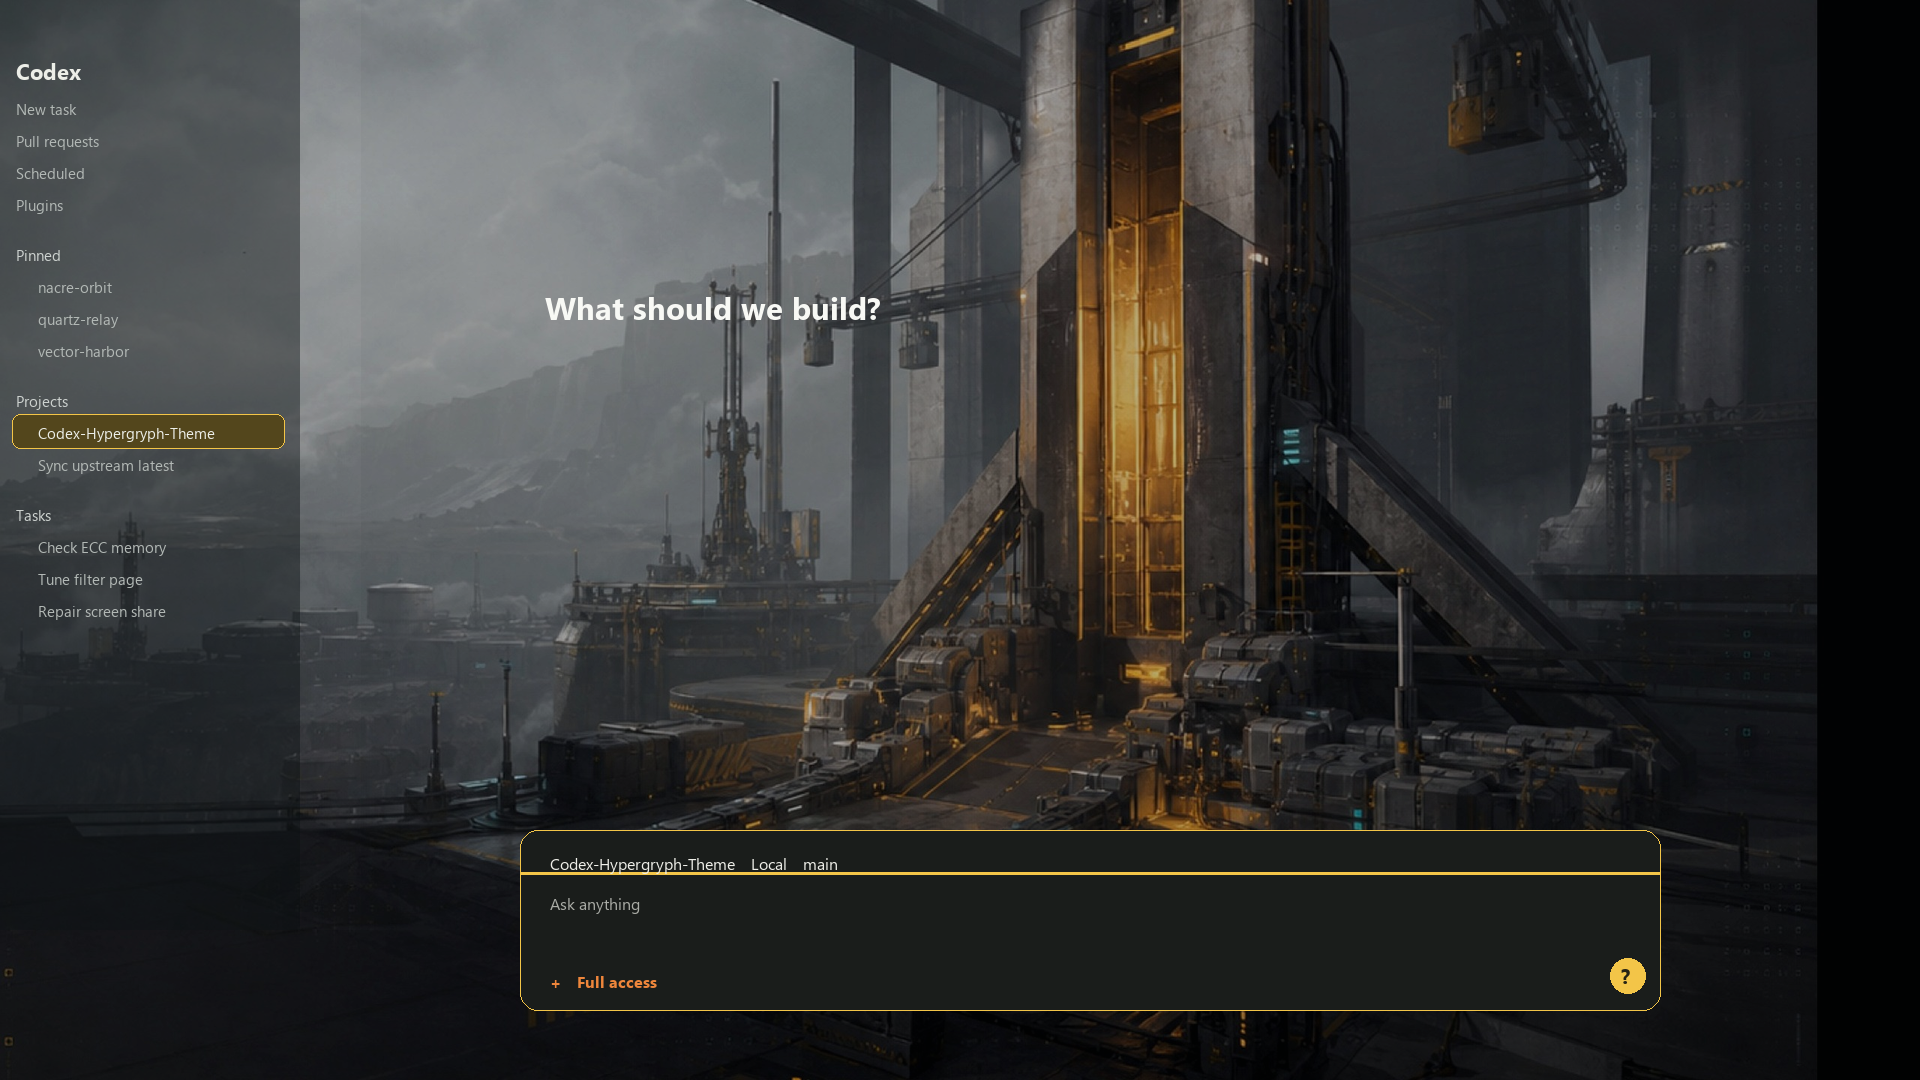
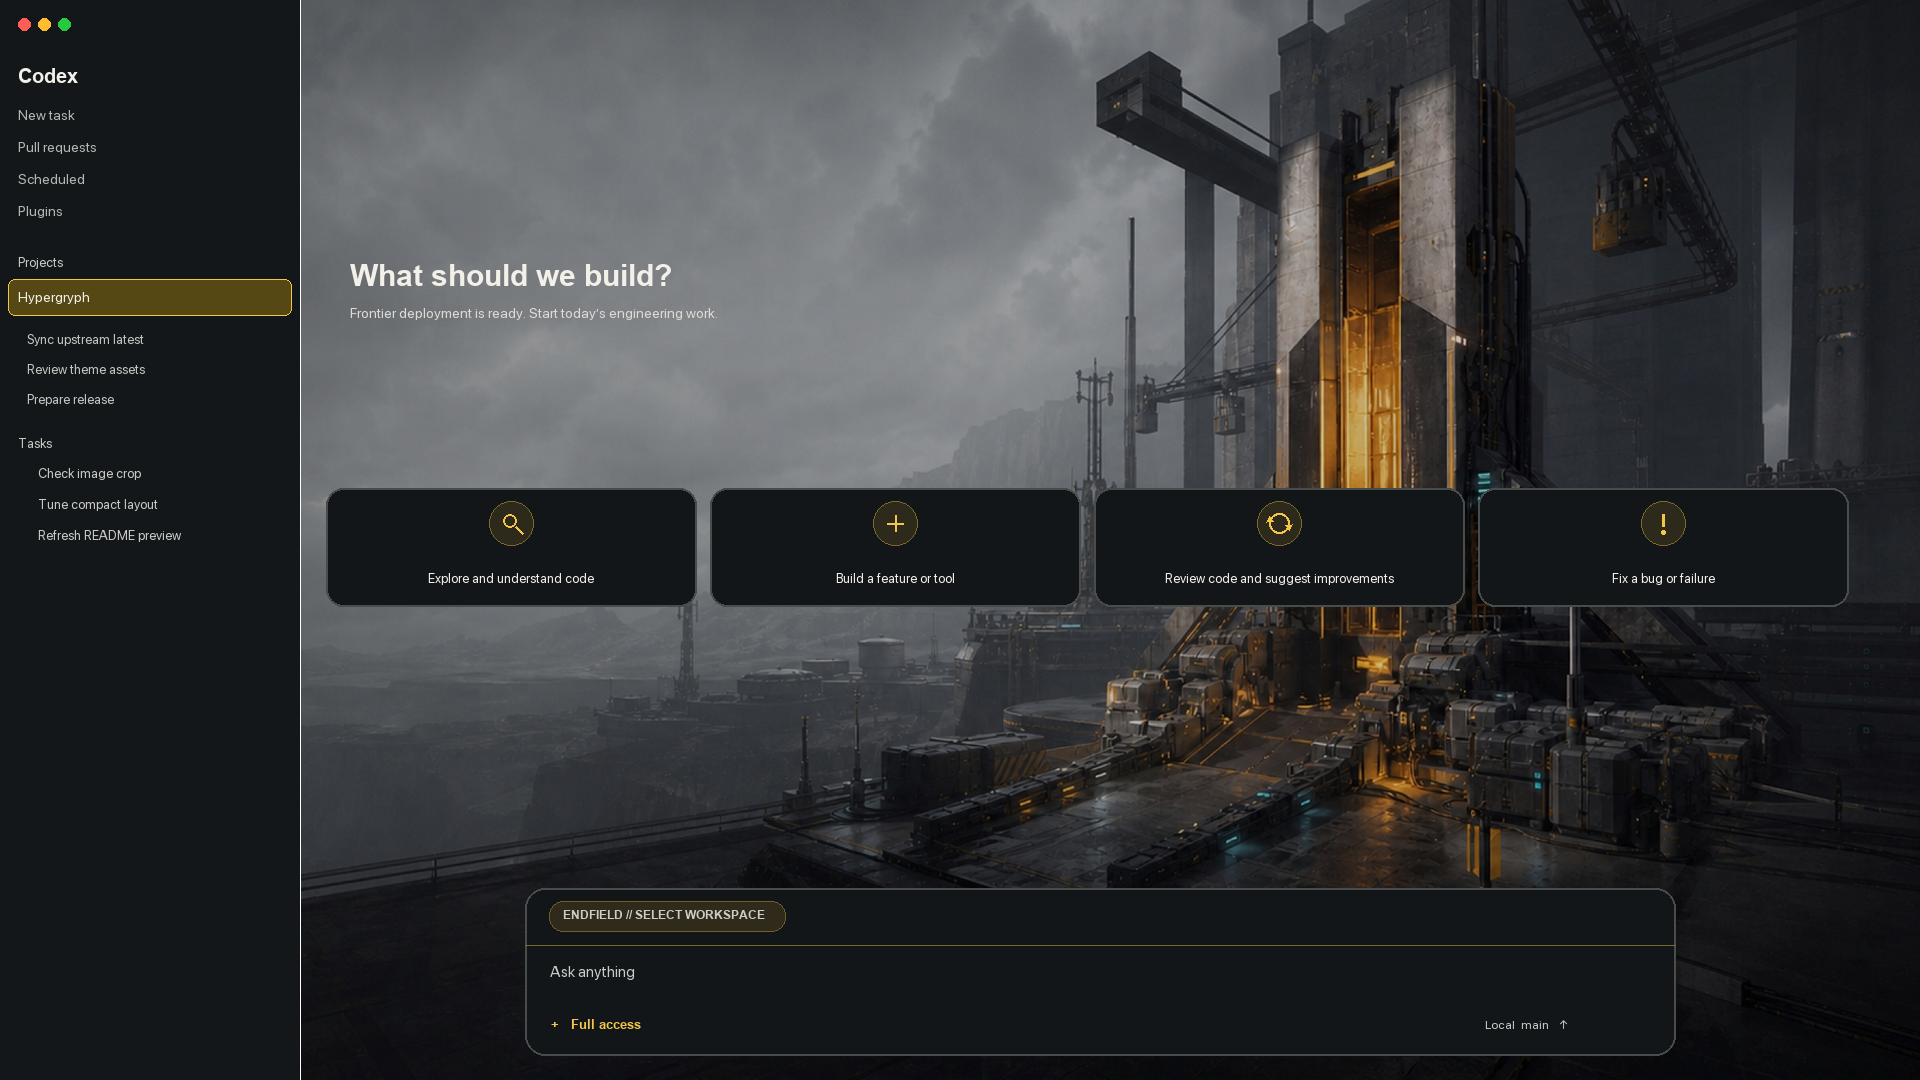
feat: improve background composition

diff --git a/README.md b/README.md
@@ -7,12 +7,13 @@
 <p align="center">
   <img src="./docs/images/preview-desktop.png" alt="Codex Hypergryph Theme 桌面布局预览" width="100%">
   <br>
-  <sub>脱敏预览；项目名均为虚构占位。</sub>
+  <sub>Codex 26.715 / Dream Skin 1.2.0 布局参考；项目名均为虚构占位，后续 Codex 版本的原生控件可能变化。</sub>
 </p>
 
 ## 资源
 
-- `主题资源/background.jpg`：原创工业科幻背景图。
+- `主题资源/background-v2.jpg`：当前主题使用的原创工业科幻背景图；主塔位于右侧，左侧保留 UI 安全区。
+- `主题资源/background.jpg`：上一版背景图，保留用于回退与构图对照。
 - `主题资源/theme.json`：主题元数据，包含名称、文案、外观、构图参数和 accent 色。
 
 本主题资源不新增、不隐藏 Codex 新建任务页的原生建议按钮。新版 Codex 或不同账号状态下可能不显示 suggestion cards；这种情况下主题只会渲染背景、标题区域和输入框外观。
@@ -20,14 +21,14 @@
 ## 使用方式
 
 1. 先按主仓库文档安装并运行 Codex Dream Skin。
-2. 将本仓库的 `主题资源` 目录作为一个 saved theme/preset 目录使用，目录内只需要 `theme.json` 与 `background.jpg`。
+2. 将本仓库的 `主题资源` 目录作为一个 saved theme/preset 目录使用；当前版本至少需要 `theme.json` 与其引用的 `background-v2.jpg`。
    - macOS 已安装主题库：`~/Library/Application Support/CodexDreamSkinStudio/themes/preset-endfield-frontier/`
    - Windows 已安装主题库：`%LOCALAPPDATA%\CodexDreamSkin\themes\preset-endfield-frontier\`
 3. 继续使用主仓库自带命令或菜单切换、启动、验证和恢复主题；例如 macOS 可用主仓库的 `switch-theme-macos.sh --id preset-endfield-frontier`。
 
 ## 复制即用
 
-下面命令默认你已经在本仓库根目录中运行，也就是当前目录下能看到 `主题资源`。脚本全部来自主仓库；本仓只把 `theme.json` 与 `background.jpg` 放进主仓库支持的主题库。
+下面命令默认你已经在本仓库根目录中运行，也就是当前目录下能看到 `主题资源`。脚本全部来自主仓库；本仓只把 `theme.json` 与当前背景图放进主仓库支持的主题库。
 
 ### macOS
 
@@ -47,7 +48,7 @@ cd "$UPSTREAM/macos"
 THEME_ID="preset-endfield-frontier"
 THEME_DEST="$HOME/Library/Application Support/CodexDreamSkinStudio/themes/$THEME_ID"
 mkdir -p "$THEME_DEST"
-cp "$THEME_SOURCE/theme.json" "$THEME_SOURCE/background.jpg" "$THEME_DEST/"
+cp "$THEME_SOURCE/theme.json" "$THEME_SOURCE/background-v2.jpg" "$THEME_DEST/"
 
 ~/.codex/codex-dream-skin-studio/scripts/switch-theme-macos.sh --id "$THEME_ID"
 ~/.codex/codex-dream-skin-studio/scripts/start-dream-skin-macos.sh
@@ -61,7 +62,7 @@ cp "$THEME_SOURCE/theme.json" "$THEME_SOURCE/background.jpg" "$THEME_DEST/"
 $ThemeRepo = (Get-Location).Path
 $ThemeSource = Join-Path $ThemeRepo '主题资源'
 if (-not (Test-Path -LiteralPath (Join-Path $ThemeSource 'theme.json')) -or
-    -not (Test-Path -LiteralPath (Join-Path $ThemeSource 'background.jpg'))) {
+    -not (Test-Path -LiteralPath (Join-Path $ThemeSource 'background-v2.jpg'))) {
   throw "Theme resources not found. Run this block from the Codex-Hypergryph-Theme repo root, or set `$ThemeRepo to that absolute path."
 }
 
@@ -79,7 +80,7 @@ powershell.exe -NoProfile -ExecutionPolicy Bypass -File .\scripts\install-dream-
 $ThemeId = 'preset-endfield-frontier'
 $ThemeDest = Join-Path $env:LOCALAPPDATA "CodexDreamSkin\themes\$ThemeId"
 New-Item -ItemType Directory -Force -Path $ThemeDest | Out-Null
-Copy-Item -LiteralPath (Join-Path $ThemeSource 'theme.json'), (Join-Path $ThemeSource 'background.jpg') -Destination $ThemeDest -Force
+Copy-Item -LiteralPath (Join-Path $ThemeSource 'theme.json'), (Join-Path $ThemeSource 'background-v2.jpg') -Destination $ThemeDest -Force
 
 . .\scripts\common-windows.ps1
 . .\scripts\theme-windows.ps1

diff --git a/ASSET-PROVENANCE.md b/ASSET-PROVENANCE.md
@@ -1,6 +1,7 @@
 # Asset provenance
 
-- `主题资源/background.jpg`：为本主题生成的原创 AI 辅助工业科幻背景，并按 Codex 首页 UI 位置重新取景；未使用官方 CG 帧、角色素材或 Logo。
+- `主题资源/background-v2.jpg`：当前主题使用的原创 AI 辅助工业科幻背景；基于上一版重新构图，将主塔视觉中心移至画面约 72% 处，并扩展左侧 UI 安全区。未使用官方 CG 帧、角色素材或 Logo。
+- `主题资源/background.jpg`：上一版原创 AI 辅助背景，保留用于回退与构图对照。
 - `docs/images/preview-desktop.png`：基于当前主题资源生成的 `1920 × 1080` 脱敏预览。
 - `docs/images/preview-compact.png`：基于当前主题资源生成的 `480 × 600` 脱敏预览。
 